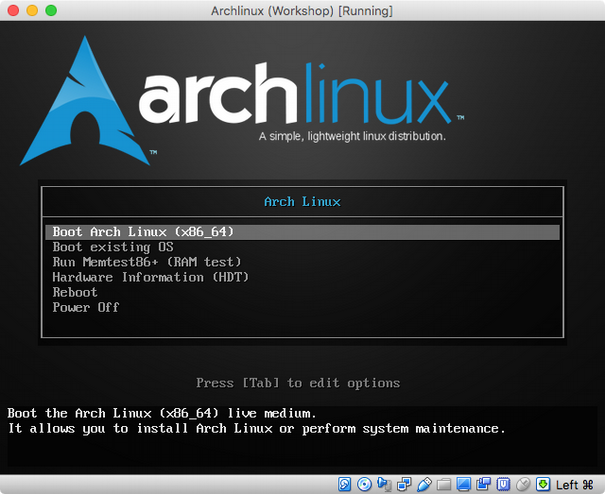
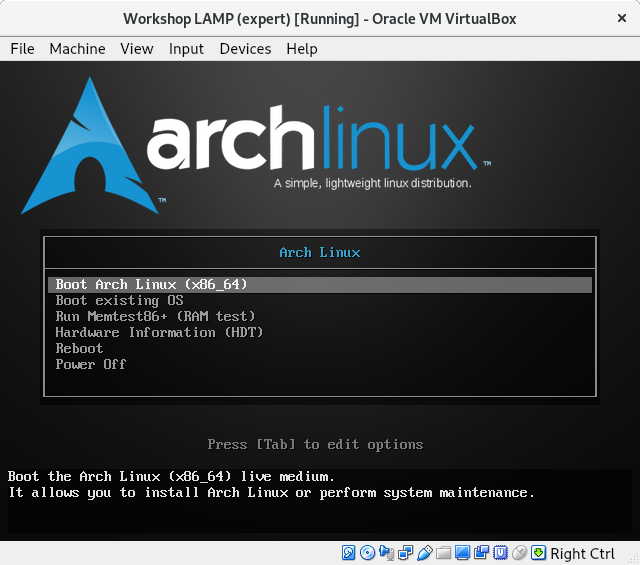
nieuwe afbeeldingen

diff --git a/workshop_lamp_expert.md b/workshop_lamp_expert.md
@@ -1,5 +1,5 @@
 ---
-title: Workshop LAMP
+title: Workshop LAMP (Expert)
 author: ing. Sebastiaan Labijn
 ---
 
@@ -8,12 +8,13 @@ author: ing. Sebastiaan Labijn
 1. [Inleiding](#inleiding)
 2. [Voorbereiding](#voorbereiding)
 3. [Arch Linux](#arch-linux)
-4. [MariaDB](#mariadb)
-5. [PHP](#php)
-6. [Apache](#apache)
+4. [SSH](#ssh)
+5. [SFTP](#sftp)
+6. [MariaDB](#mariadb)
+7. [PHP](#php)
+8. [Apache](#apache)
 7. [Uitbreidingen](#uitbreidingen)
 	* [phpMyAdmin](#phpmyadmin)
-	* [FTP server](#ftp-server)
 	* [VirtualBox GuestAdditions](#virtualbox-guestadditions)
 	* [Synchronisatie bestanden server via gedeelde map](#synchronisatie-bestanden-server-via-gedeelde-map)
 
@@ -32,10 +33,12 @@ Afspraken doorheen deze workshop:
 * acties/selecties/muisklikken worden geplaatst tussen ' '
 * toetsenaanslagen worden geplaatst tussen " ", b.v.:&nbsp;"ctrl + c"
 * (deel)inhoud van bestanden is in een kader afgedrukt (indien mogelijk met syntaxcoloring)
-* voor de eenvoud wordt alles met user **root** uitgewerkt. Er worden dus geen 
-extra accounts gebruikt 
+* enkel de basis installatie wordt als root uitgevoerd. De configuratie nadien 
+gebeurt met een gebruiker met sudo rechten
 
-Voor een uitgebreidere workshop waarbij o.a. meerdere gebruikers en partities gebruikt worden kan u terecht in [**Workshop LAMP expert**](/workshop_lamp_expert.md).
+In deze uitgebreidere versie van de workshop wordt er ook meer aandacht besteed 
+aan beveiliging van de server door o.a. meerdere gebruikers en partities aan te 
+maken.
 
 # Voorbereiding
 
@@ -61,9 +64,9 @@ Maak eerst een nieuw host-only network aan. Dit doe je door in **virtualbox** de
 
 Maak nu in VirtualBox een nieuwe machine aan met volgende parameters:
 
-* Geheugen: 1024 MB
+* Geheugen: minstens 1024 MB (indien meer mogelijk is dit beter)
 * Harde Schijf: 20 GB
-* 2 Netwerk Adapters     
+* 2 Netwerk Adapters 
 	* 1: NAT
 	* 2: Host-Only (Kies bij 'name'  de aangemaakte netwerkadapter van hierboven)
 
@@ -74,11 +77,13 @@ Maak nu in VirtualBox een nieuwe machine aan met volgende parameters:
 Start de virtuele machine en kies het ISO bestand van ArchLinux om op te starten.
 U krijgt volgend scherm te zien
 
-![Logo Arch Linux](./afb/arch_live.png)
+![Live Arch Linux](./afb/arch_live.png)
 
 Aangezien we nog geen besturingssysteem geïnstalleerd hebben kiezen we voor 
 'Boot Arch Linux (x86_64)'. Na laden van de installatie komen we in de commandprompt
  terecht en kunnen we starten met de voorbereiding van de installatie.
+
+![Booted Live Arch Linux](./afb/arch_boot.png)
 
 ## Toestenbordindeling instellen
 
@@ -115,7 +120,7 @@ Als uitvoer van dat commando zou je het externe ip van jouw machine moeten zien
 ## Klok goed zetten	
 
 De initiële waarde van de systeemklok is niet altijd accuraat. Om deze bij te
- stellen voeren we volgend commando uit:  
+ stellen voeren we volgend commando uit:
 
 ```bash
 root@archiso ~ # timedatectl set-ntp true
@@ -138,8 +143,8 @@ U zou een uitvoer gelijkaardig aan onderstaande schermafbeelding moeten krijgen:
 
 In deze workshop gaan we verder uit van **/dev/sda** als primaire harde schijf.
 Pas in de commando's dus **sda** aan indien u een andere letter heeft voor jouw 
-harde schijf. Om effectief een partitie op onze schijf aan te maken gaan we met **fdisk** aan de 
-slag gaan.   
+harde schijf. Om effectief partities op onze schijf aan te maken gaan we met **fdisk** aan de 
+slag gaan.
 
 ```bash
 root@archiso ~ # fdisk /dev/sda
@@ -155,10 +160,34 @@ moeten uitzien:
 Controleer zeker of **Disklabel type: dos** is. Indien dat niet zo is voert u 
 eerst "o" in als commando om zo een nieuwe partitietabel aan te maken van het type dos.
 	
+We kiezen er in deze uitgebreide workshop voor om onze schijf in 4 partities op 
+te delen:
+
+* /boot 	: bevat de bootloader (type = msdos)
+* / 		: rootpartitie, bevat alle programma's die op de server draaien
+* /srv/http : alle gegevens van de webserver
+* swap
+
+Er kan eventueel nog gekozen worden om de gebruikersgegevens (**/home**) ook op 
+een aparte partitie te plaatsen. In een serveromgeving wordt dit echter bijna nooit
+gedaan omdat de grootte van deze map te verwaarlozen is.
+
+Het voordeel van deze manier van werken is dat b.v.: de gegevens de server heel 
+gemakkelijk kunnen gemigreerd worden omdat deze op eenzelfde partitie staan.
+
 Om een nieuwe partitie aan te maken voeren we eerst "n" in als commando. 
 Nadien drukt u een aantal keer op "enter", controleer steeds of de standaardwaarden
- overeenkomen met onderstaande waarden:
+ overeenkomen met de gewenste waarden voor de partities. Maak alle partities aan
+volgens de gegevens in onderstaande tabel.
 
+| Partition type | Partition number | First sector | Last sector
+| :------------: | :--------------: | :----------: | :---------: |
+| p              | 1 				|			   |			 |
+| p              | 2 				|			   |			 |
+| p              | 3 				|			   |			 |
+| p              | 4 				|			   | 41943039    |
+
+ 
 1. Partition type: p (we maken een primaire partitie)
 2. Partition number: 1 (Partitie nummer = 1)
 3. First sector: 2048 (Eerste sector harde schijf start op 2048)

diff --git a/workshop_lamp_basis.md b/workshop_lamp_basis.md
@@ -63,7 +63,7 @@ Maak nu in VirtualBox een nieuwe machine aan met volgende parameters:
 
 * Geheugen: 1024 MB
 * Harde Schijf: 20 GB
-* 2 Netwerk Adapters     
+* 2 Netwerk Adapters
 	* 1: NAT
 	* 2: Host-Only (Kies bij 'name'  de aangemaakte netwerkadapter van hierboven)
 
@@ -74,11 +74,13 @@ Maak nu in VirtualBox een nieuwe machine aan met volgende parameters:
 Start de virtuele machine en kies het ISO bestand van ArchLinux om op te starten.
 U krijgt volgend scherm te zien
 
-![Logo Arch Linux](./afb/arch_live.png)
+![Live Arch Linux](./afb/arch_live.png)
 
 Aangezien we nog geen besturingssysteem geïnstalleerd hebben kiezen we voor 
 'Boot Arch Linux (x86_64)'. Na laden van de installatie komen we in de commandprompt
  terecht en kunnen we starten met de voorbereiding van de installatie.
+
+![Booted Live Arch Linux](./afb/arch_boot.png)
 
 ## Toestenbordindeling instellen
 
@@ -115,7 +117,7 @@ Als uitvoer van dat commando zou je het externe ip van jouw machine moeten zien
 ## Klok goed zetten	
 
 De initiële waarde van de systeemklok is niet altijd accuraat. Om deze bij te
- stellen voeren we volgend commando uit:  
+ stellen voeren we volgend commando uit:
 
 ```bash
 root@archiso ~ # timedatectl set-ntp true
@@ -139,7 +141,7 @@ U zou een uitvoer gelijkaardig aan onderstaande schermafbeelding moeten krijgen:
 In deze workshop gaan we verder uit van **/dev/sda** als primaire harde schijf.
 Pas in de commando's dus **sda** aan indien u een andere letter heeft voor jouw 
 harde schijf. Om effectief een partitie op onze schijf aan te maken gaan we met **fdisk** aan de 
-slag gaan.   
+slag gaan.
 
 ```bash
 root@archiso ~ # fdisk /dev/sda
@@ -506,7 +508,7 @@ De volgende stap is om **PHP** te installeren. PHP is een eenvoudig aan te leren
 
 ## Installatie
 
-Om PHP te installeren loggen we, indien nodig, eerst in onze distribute in als root. Nadien installeren we PHP als volgt:    
+Om PHP te installeren loggen we, indien nodig, eerst in onze distribute in als root. Nadien installeren we PHP als volgt:
 
 ```bash
 [root@virtualbox ~]# pacman -S php
@@ -811,6 +813,7 @@ Description=Sync Website
 
 [Service]
 ExecStart=/root/sync.sh
+# Ongeacht uitkomst vorige uitvoering, altijd herstarten
 Restart=always
 # Synchronisatie elke 5 seconden uitvoeren
 RestartSec=5
@@ -820,7 +823,7 @@ Alias=websitesync.service
 WantedBy=multi-user.target
 ```
 
-Sla het bestand op en controleer of het system de service kan laden met
+Sla het bestand op en controleer of het system de service kan laden.
 
 ```bash
 [root@virtualbox ~]# systemctl list-unit-files | grep website
